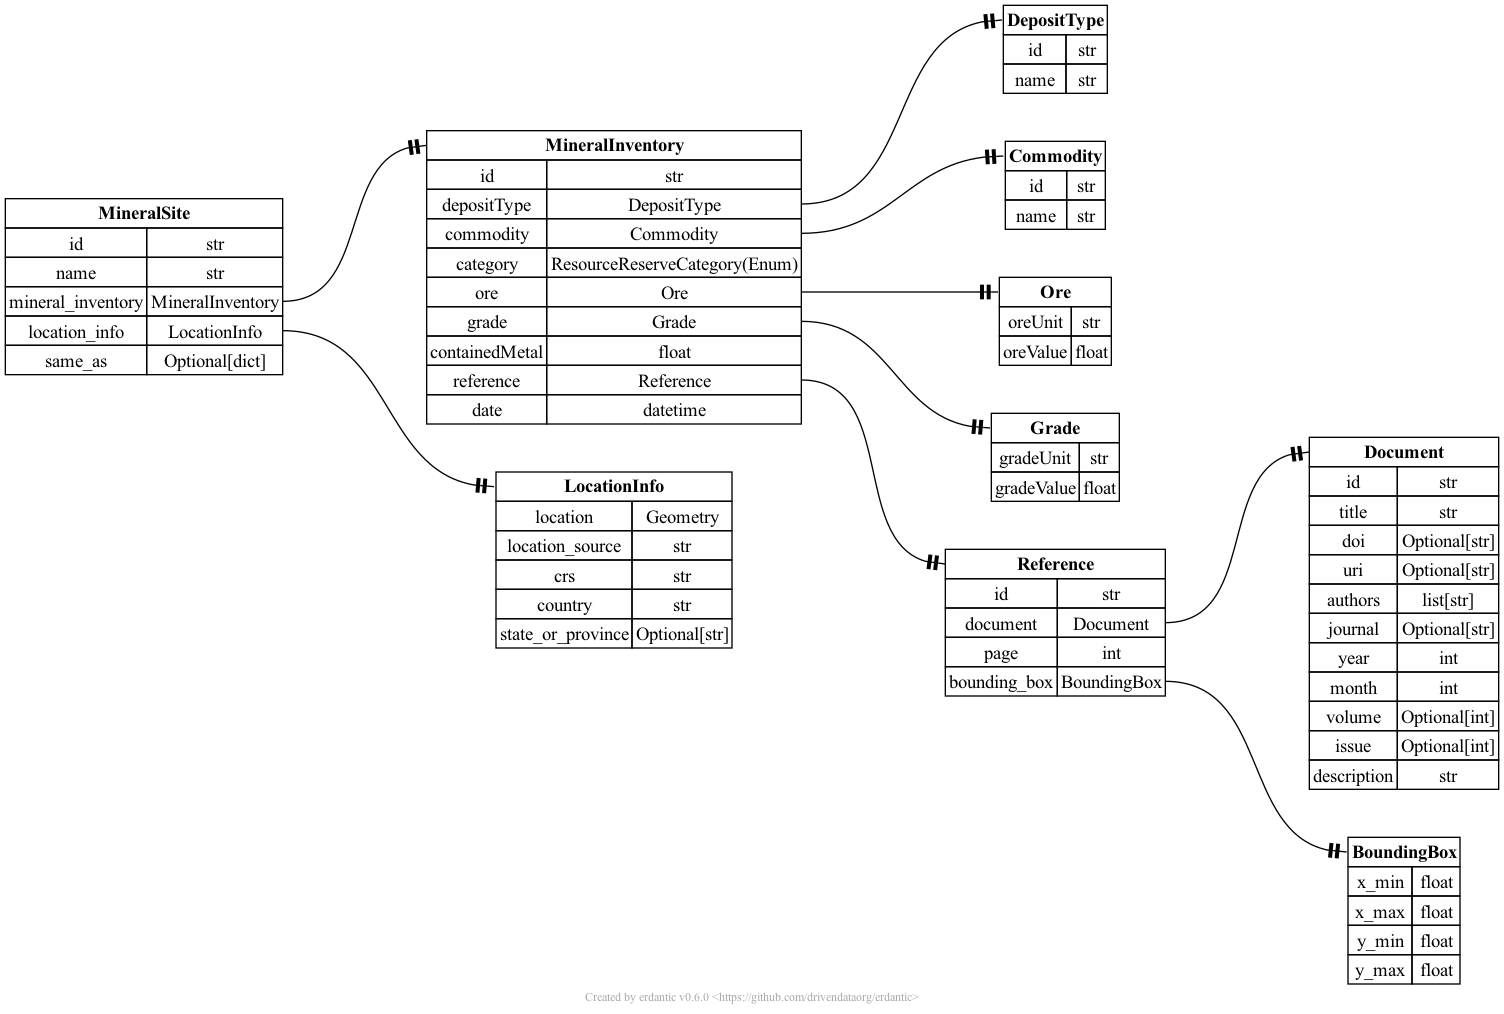
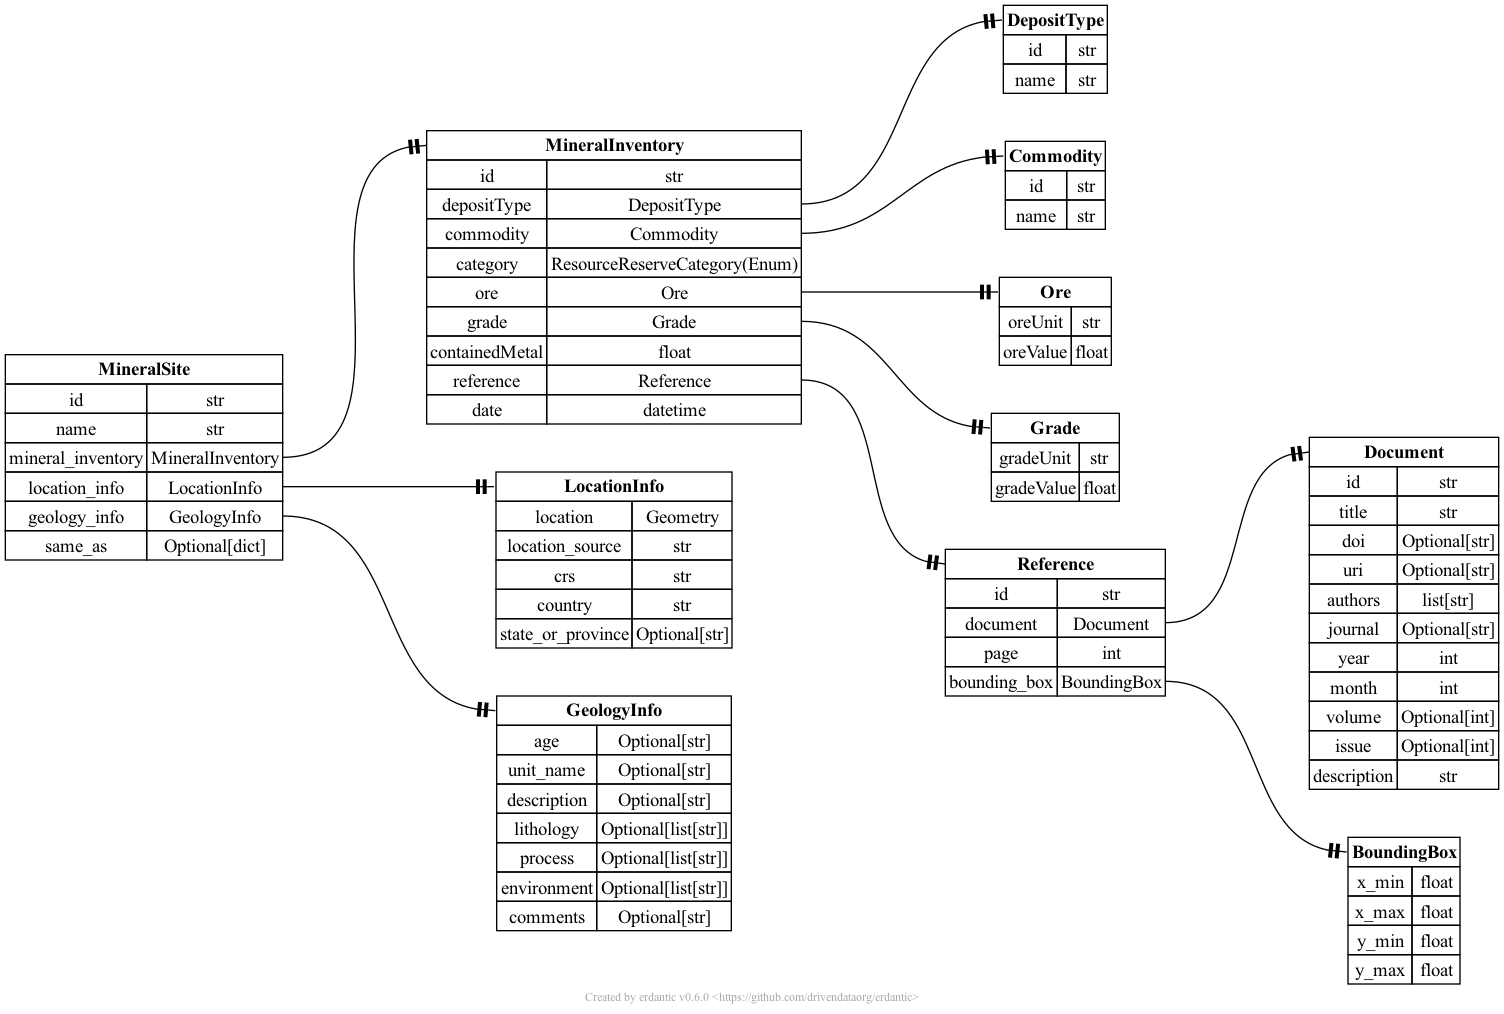
Add a block for geology info to the TA2 MineralSite schema

diff --git a/ta2/final-output.py b/ta2/final-output.py
@@ -90,6 +90,15 @@ class LocationInfo(BaseModel):
     country: str = Field( description = "Country that the mine site resides in")
     state_or_province: Optional[str] = Field(description = "State or province that the mine site resides in")
 
+class GeologyInfo(BaseModel):
+    age: Optional[str] = Field(description = "Age of the geologic unit or event")
+    unit_name: Optional[str] = Field(description = "Name of the geologic unit")
+    description: Optional[str]
+    lithology: Optional[list[str]]
+    process: Optional[list[str]]
+    environment: Optional[list[str]]
+    comments: Optional[str]
+
 
 
 class MineralSite(BaseModel):
@@ -99,6 +108,7 @@ class MineralSite(BaseModel):
 
     mineral_inventory: MineralInventory
     location_info: LocationInfo
+    geology_info: GeologyInfo
 
     same_as: Optional[dict] = Field(
         description='Dictionary that stores the IDs point to other databases: e.g.: {"MRDS" : [{"dep_id" : "10289747","mrds_id" : "W018008",    "altername_or_previous_names": "Thompson Creek Tungsten Mine, Tungsten Jim Mine"    },    {"dep_id": "10022920",    "mrds_id":"FS00436",    "record_type":"Site"}  ],  "USMIN" : [  {"ftr_id":"Mf00576",  "site_id":"ID00055",  "ftr_name":"Tungsten Jim"},  {"ftr_id":"Mo00569",  "site_id":"ID00055"  }  ]}'

diff --git a/ta2/final-output.md b/ta2/final-output.md
@@ -6,6 +6,7 @@
 - **`name`** *(string)*: Name of the mine, e.g., Tungsten Jim.
 - **`mineral_inventory`**: Refer to *[MineralInventory](#MineralInventory)*.
 - **`location_info`**: Refer to *[LocationInfo](#LocationInfo)*.
+- **`geology_info`**: Refer to *[GeologyInfo](#GeologyInfo)*.
 - **`same_as`**: Dictionary that stores the IDs point to other databases: e.g.: {"MRDS" : [{"dep_id" : "10289747","mrds_id" : "W018008",    "altername_or_previous_names": "Thompson Creek Tungsten Mine, Tungsten Jim Mine"    },    {"dep_id": "10022920",    "mrds_id":"FS00436",    "record_type":"Site"}  ],  "USMIN" : [  {"ftr_id":"Mf00576",  "site_id":"ID00055",  "ftr_name":"Tungsten Jim"},  {"ftr_id":"Mo00569",  "site_id":"ID00055"  }  ]}.
   - **Any of**
     - *object*
@@ -65,6 +66,42 @@
     - *integer*
     - *null*
 - **`description`** *(string)*: Description of the document.
+
+## GeologyInfo
+
+### Properties
+
+- **`age`**: Age of the geologic unit or event.
+  - **Any of**
+    - *string*
+    - *null*
+- **`unit_name`**: Name of the geologic unit.
+  - **Any of**
+    - *string*
+    - *null*
+- **`description`**
+  - **Any of**
+    - *string*
+    - *null*
+- **`lithology`**
+  - **Any of**
+    - *array*
+      - **Items** *(string)*
+    - *null*
+- **`process`**
+  - **Any of**
+    - *array*
+      - **Items** *(string)*
+    - *null*
+- **`environment`**
+  - **Any of**
+    - *array*
+      - **Items** *(string)*
+    - *null*
+- **`comments`**
+  - **Any of**
+    - *string*
+    - *null*
 
 ## Grade
 
